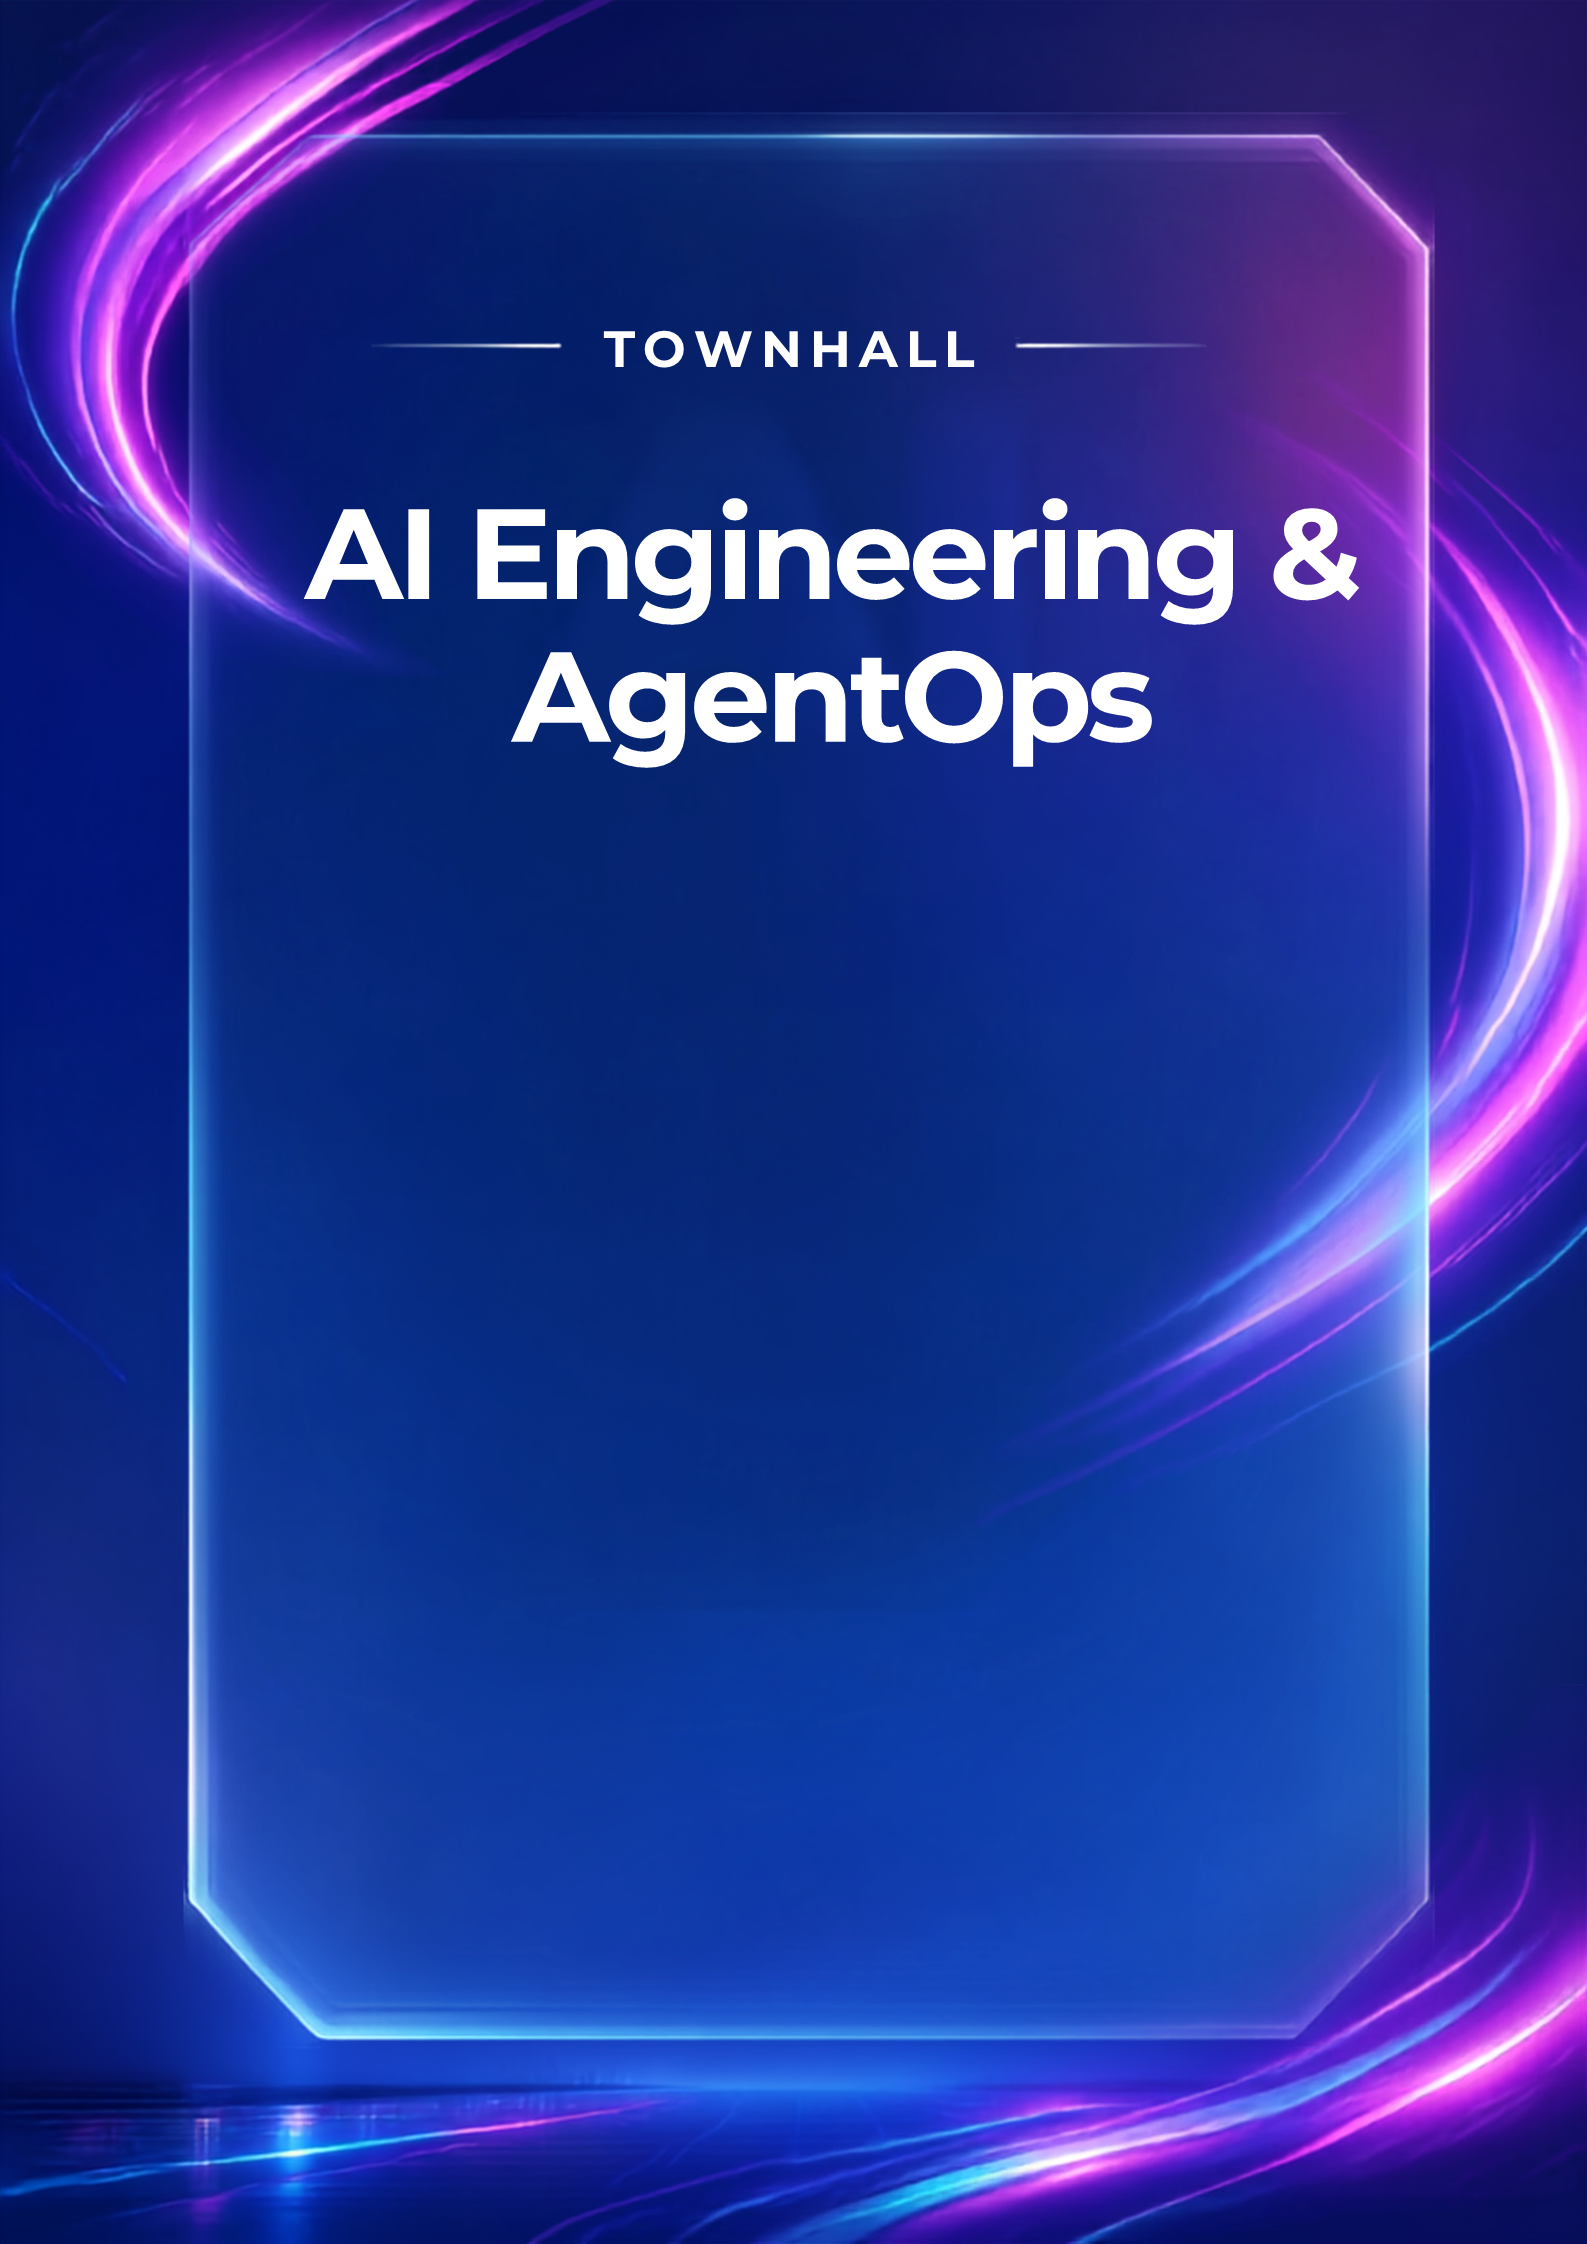
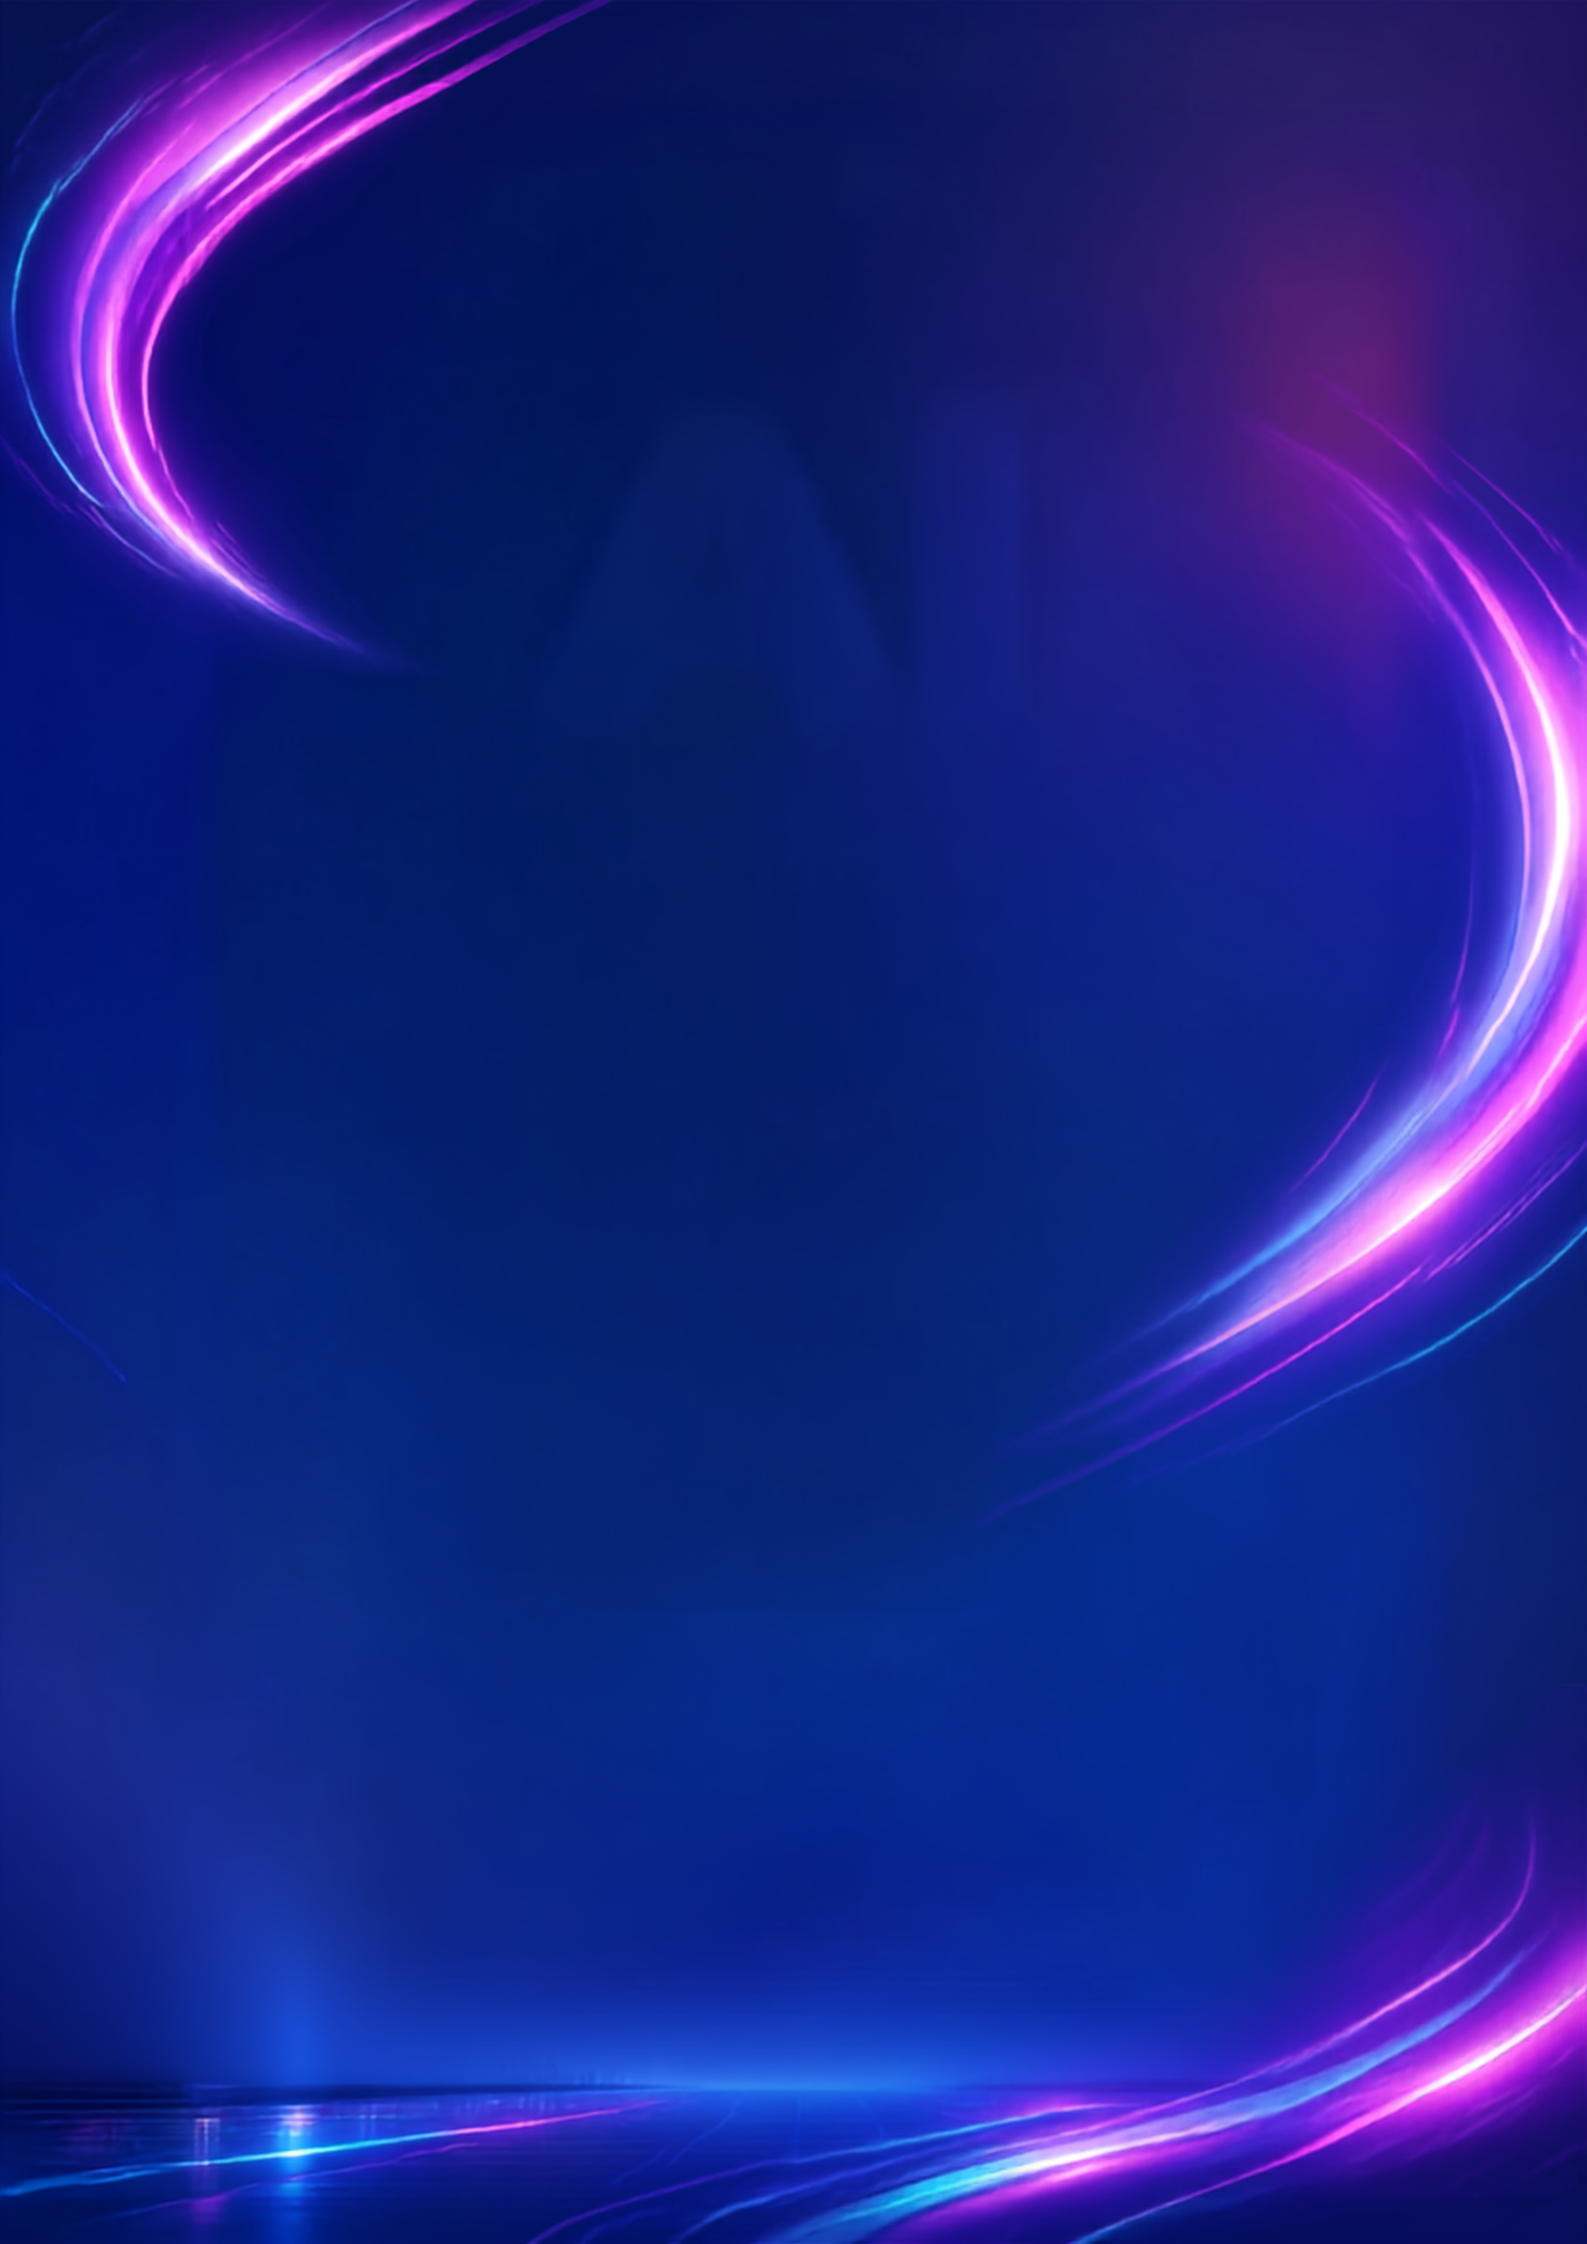
Update Main Page event design

Changed region(s): [[0.0926, 0.0312, 0.9263, 0.9358], [0.4014, 0.1248, 0.5866, 0.1872]]

diff --git a/style.css b/style.css
@@ -38,7 +38,6 @@ body {
 
 .mainTitle {
     position: absolute;
-
     top: 55%;
     left: 50%;
 
@@ -52,6 +51,49 @@ body {
     font-weight: bold;
 
     white-space: nowrap;
+}
+
+/* -----------------------------
+   EVENT HEADER
+----------------------------- */
+
+.eventHeader {
+    position: absolute;
+    top: 13%;
+    left: 50%;
+
+    transform: translateX(-50%);
+
+    width: 90%;
+    text-align: center;
+
+    color: white;
+}
+
+.eventLabel {
+    display: flex;
+    align-items: center;
+    justify-content: center;
+    gap: 12px;
+
+    font-size: 14px;
+    font-weight: bold;
+    letter-spacing: 3px;
+}
+
+.eventLabel span {
+    width: 50px;
+    height: 1px;
+
+    background-color: white;
+}
+
+.eventTitle {
+    margin-top: 28px;
+
+    font-size: 34px;
+    font-weight: bold;
+    line-height: 1.15;
 }
 
 

diff --git a/index.html b/index.html
@@ -7,7 +7,7 @@
 
     <title>Attendance Scanner</title>
 
-    <link rel="stylesheet" href="style.css?v=8">
+    <link rel="stylesheet" href="style.css?v=9">
 </head>
 
 <body>
@@ -15,17 +15,28 @@
     <!-- MAIN PAGE -->
 <div id="mainPage">
 
-    <div class="mainContent">
+    <div class="eventHeader">
+        <div class="eventLabel">
+            <span></span>
+            TOWNHALL
+            <span></span>
+        </div>
 
-        <h1 class="mainTitle">
-            Attendance
-        </h1>
-
-        <button id="enterButton">
-            ENTER
-        </button>
-
+        <div class="eventTitle">
+            AI Engineering &<br>
+            AgentOps
+        </div>
     </div>
+
+
+    <h1 class="mainTitle">
+        Attendance
+    </h1>
+
+
+    <button id="enterButton">
+        ENTER
+    </button>
 
 </div>
 
